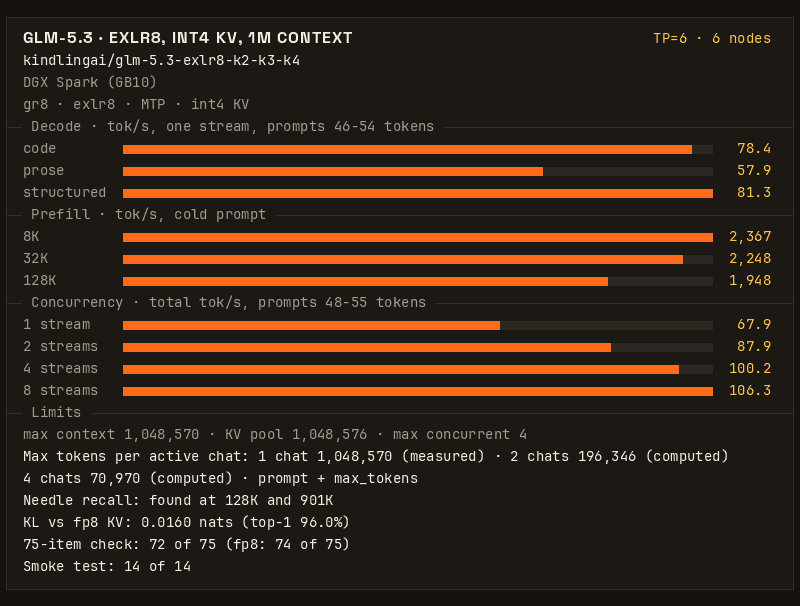
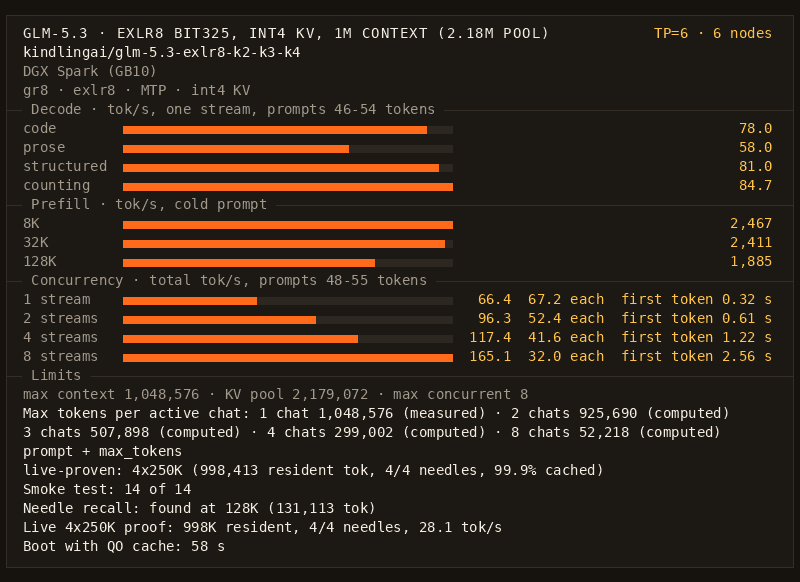
Pin gr8 v1.1.0, 2.18M KV pool (SHARE_LIMIT=65,536, SESS=8), quality/fast presets, and live 4x250K proof (#2)

diff --git a/README.md b/README.md
@@ -1,138 +1,95 @@
-# KindlingAI: GLM-5.3 EXLR8 on six DGX Sparks (1M context)
+# KindlingAI: GLM-5.3 EXLR8 on six DGX Sparks (1M context, 2.18M KV pool)
 
 If you are an agent booting this for someone, read [AGENTS.md](AGENTS.md) first, then the Quickstart.
 
 _**Join our discord to learn more about KindlingAI and `gr8`: https://discord.gg/8EAvYPV2rE**_
 
-Full GLM-5.3 on six DGX Sparks (GB10, 128 GB each) at TP=6, served by [gr8](https://github.com/kindlingai/gr8) from
-[kindlingai/glm-5.3-exlr8-k2-k3-k4](https://huggingface.co/kindlingai/glm-5.3-exlr8-k2-k3-k4), tuned for 1M context:
-a 1,048,576-token int4 KV pool (the full context of the model), and the first 131,072 tokens of each chat on every box so that agent prompts up to that
-size stay fast. This recipe is the published gr8 image, pinned by digest, and one `.env` file. Nothing is compiled.
+Full GLM-5.3 on six DGX Sparks (GB10, 128 GB each) at TP=6, served by [gr8](https://github.com/kindlingai/gr8) `v1.1.0` from
+the `bit325` width profile of [kindlingai/glm-5.3-exlr8-k2-k3-k4](https://huggingface.co/kindlingai/glm-5.3-exlr8-k2-k3-k4/tree/3e388b45b26ca4558351d22994afcfc85b99af74) (v0.6):
+a full **1,048,576-token** context window backed by a **2,179,072-token** int4 KV pool (`SHARE_LIMIT=65,536`, keeping 32K–64K prompts 100% unsharded),
+zero-copy shared prefix pages, MTP=3 drafting with confidence stopping, up to 8 concurrent chats, 7.4+ GiB free RAM per box,
+and a QO cache for ~58 s boots. This recipe is the published gr8 image, pinned by digest, and one `.env` file. Nothing is compiled.
 
 ![GLM-5.3 on six DGX Sparks, 1M context: decode, prefill and limits](docs/card.png)
 
-These 1M-context settings build on the TP=6 recipe
+These TP=6 settings build on the TP=6 recipe
 [knapcio/GLM-5.3-gr8-6x-DGX-Spark-TP6](https://github.com/knapcio/GLM-5.3-gr8-6x-DGX-Spark-TP6). Thank you.
 
-78.4 tok/s for one request writing code · 2,248 tok/s prefill on a 32K prompt · 4 requests at once, 100.2 tok/s in
-total · a 1,048,576-token KV pool · a fact hidden in a 901K prompt found
+78.0 tok/s for one request writing code · 58.0 tok/s prose · 2,467 tok/s prefill at 8K (2,411 at 32K, 1,885 at 128K) · 8 requests at once, 165.1 tok/s in total (180.2 tok/s in fast mode) · 2.18M-token KV pool (live-proven 4×250K = 998K resident tokens) · 7.4+ GiB free RAM per box · boot in 58 s
 
 ## Results
 
-Six DGX Sparks on one switch, TP=6, this recipe's `.env` (int4 KV, the default) under Docker Compose on the gr8 image
-`sha-a555ee2` (one commit before the pinned v1.0; see [Engine pin](#engine-pin)), measured 2026-11-12 with gr8's own benchmark (`bench/bench.py`, default level), one boot.
-GPU clocks were uncapped on all six boxes in the timed stages. Every speed is in tokens per second (tok/s).
+Six DGX Sparks on a 200G switch, TP=6, `gr8 v1.1.0` (`cdd1e09`), this recipe's `.env` (`bit325` v0.6 experts, int4 KV `CAP=2,179,072`, `MAX_MODEL_LEN=1,048,576`, `SHARE_LIMIT=65,536`, `SESS=8`, `GR8_KV_SHARE_PAGES=1`, MTP=3 with confidence stopping, default quality preset `MOE_UNION_CAP=48`), measured 2026-11-20 with gr8's own benchmark (`bench/bench.py`, default level), one fresh boot. GPU clocks were uncapped on all six boxes in the timed stages. Every speed is in tokens per second (tok/s).
 
 One request, short prompts (46-54 tokens, up to 512 tokens out, 6 runs each):
 
 | work | code | prose | structured | counting |
 |---|---|---|---|---|
-| tok/s, mean | 78.4 | 57.9 | 81.3 | 85.1 |
-| 95% interval | 76.7 - 80.9 | 57.3 - 58.6 | 79.1 - 83.7 | 84.8 - 85.5 |
+| tok/s, mean | 78.0 | 58.0 | 81.0 | 84.7 |
+| lowest - highest run | 73.1 - 81.3 | 53.8 - 60.5 | 78.0 - 83.5 | 83.2 - 85.3 |
+| 95% interval | 75.9 - 80.0 | 55.9 - 60.0 | 79.5 - 82.4 | 84.0 - 85.3 |
 
 Prefill, cold prompt (one run each):
 
 | prompt | first token | prefill tok/s | decode after it | first token, same prompt again (cached) |
 |---|---|---|---|---|
-| 8K tokens | 3.5 s | 2,367 | 55.2 tok/s | 0.08 s |
-| 32K tokens | 14.6 s | 2,248 | 52.2 tok/s | 0.15 s |
-| 128K tokens | 67.4 s | 1,948 | 37.3 tok/s | 0.39 s |
+| 8K tokens | 3.30 s | 2,467 | 54.7 tok/s | 0.11 s |
+| 32K tokens | 13.55 s | 2,411 | 57.6 tok/s | 0.15 s |
+| 128K tokens | 69.69 s | 1,885 | 35.9 tok/s | 1.70 s |
+
+Because `SHARE_LIMIT=65,536` keeps the first 64K tokens unsharded on every box, decode after a 32K prompt holds **57.6 tok/s**. (Note: in the 8K and 32K runs, 8–12 shared chat-template tokens hit the prefix cache, 0.04–0.11% of the prompt; 128K was 100% cold with 0 cached tokens.)
 
 Requests at once (short mixed prompts, 48-55 tokens, up to 512 tokens out each):
 
 | requests at once | 1 | 2 | 4 | 8 |
 |---|---|---|---|---|
-| total tok/s | 67.9 | 87.9 | 100.2 | 106.3 |
-| tok/s per request | 69.1 | 55.4 | 34.3 | 36.4 |
-| first token, median | 0.39 s | 0.93 s | 1.53 s | 12.2 s |
+| total tok/s (quality default, `MOE_UNION_CAP=48`) | 66.4 | 96.3 | 117.4 | 165.1 |
+| tok/s per request (quality default) | 67.2 | 52.4 | 41.6 | 32.0 |
+| first token, median | 0.32 s | 0.61 s | 1.22 s | 2.56 s |
 
-Four chats decode at once (`SESS=4`). With eight requests, four wait for a slot: that is the 12.2 s first token.
+### Speed and quality presets (`MOE_UNION_CAP`)
 
-Checks on the same boot:
+`gr8 v1.1.0` enables seven bit-exact decode and prefill kernels (`KL = 0.00000`), `DEC_BK_MAX=2048` (allowing a **2.18M-token** int4 KV pool and **8 concurrent sessions** while keeping **7.4+ GiB** free RAM per box), and a batch-budgeted MoE expert union cap (`MOE_UNION_CAP`):
+
+| preset (`.env`) | code decode | 4 streams total (per req) | 8 streams total (per req) | prefill 8K / 32K / 128K |
+|---|---:|---:|---:|---:|
+| **Quality (default, `MOE_UNION_CAP=48`)** | 78.0 tok/s | 117.4 (41.6) tok/s | 165.1 (32.0) tok/s | 2,467 / 2,411 / 1,885 tok/s |
+| **Fast (`MOE_UNION_CAP=32`)** | 77.8 tok/s | 128.2 (49.4) tok/s | 180.2 (36.8) tok/s | 2,320 / 2,435 / 1,909 tok/s |
+
+Fast mode (`MOE_UNION_CAP=32`) was measured on a fresh boot on 2026-11-20 (`bench/bench.py --quick`, 57.6 tok/s prose, 67.0 / 92.0 / 128.2 / 180.2 tok/s at 1 / 2 / 4 / 8 streams, 0 suspect characters, 7.36 GiB lowest `MemAvailable`). Set `MOE_UNION_CAP=0` for uncapped exact routing (`KL = 0.00000`).
+
+### How long each chat can be
+
+The int4 KV pool holds **2,179,072 tokens** (`6,528` physical pages of 64 tokens per rank), with `MAX_MODEL_LEN=1,048,576` (full 1M context). The first 65,536 tokens (`SHARE_LIMIT`) of each chat are stored on every box, and the rest is spread across the six boxes. Each active chat reserves its prompt plus `max_tokens`:
+
+| active chats | 1 | 2 | 3 | 4 | 8 |
+|---|---:|---:|---:|---:|---:|
+| max tokens per chat, equal split | 1,048,576 | 925,690 | 507,898 | 299,002 | 52,218 |
+
+The 1-chat value is measured (the served `max_model_len`); the multi-chat values are computed from the 6,528-page pool. Up to 8 chats decode simultaneously (`SESS=8`).
+
+### Live 4 × 250K long-context concurrency proof
+
+Measured immediately after the benchmark on the same `v1.1.0` quality-default boot on 2026-11-20 (four simultaneous ~250K-token independent chats, unique passkey needle per chat, zero evictions):
+
+| live concurrent workload | resident KV tokens | needle recall | turn-2 prefix cache hit | aggregate decode |
+|---|---:|---:|---:|---:|
+| **4 × 250K** independent chats | 998,413 | 4/4 (T1) & 4/4 (T2) | 99.9% (249.5K–249.7K cached each) | 28.1 tok/s (8.1–9.3 each) |
+
+Checks on the same `v1.1.0` default boot:
 
 | check | result |
 |---|---|
 | smoke test | 14 of 14 |
-| fact hidden in a 130,954-token prompt | found |
-| fact hidden in a 901,428-token prompt (a separate request on the same boot) | found; first token after 920 s |
+| fact hidden in a 131,113-token prompt | found |
 | count to 200, three times | 3 of 3 clean |
-| KL against the fp8 KV format, 4,096 positions | mean 0.0160, top-1 agreement 96.0% |
-| 75-item quality check (code, math, prose) | 72 of 75; the fp8 KV format scored 74 of 75 on the same boxes that night |
-| longest context (`max_model_len`) | 1,048,570 tokens |
-| boot to `/health` 200 | 98 s (one boot, model already on disk) |
-| lowest `MemAvailable` recorded on any box, 901K prompt included | 5.00 GiB |
+| prompt cache | 421 of 422 cached |
+| suspect characters | 0 replies |
+| longest context (`max_model_len`) | 1,048,576 tokens (`2,179,072`-token KV pool) |
+| boot to `/health` 200 with the QO cache | 58 s (model already on disk) |
+| lowest `MemAvailable` recorded on any box | 7.41 GiB after bench (7.59 - 8.48 GiB after boot; 7.38 GiB after 998K-token live 4×250K proof) |
 
-### How long each chat can be
-
-The boot log line `# s2: ... pool of N pages` gives the real KV pool of each box:
-
-    pages per box = R/64 + (CAP - R)/(64 x 6)        R = SHARE_LIMIT
-
-The first R tokens of each chat are stored on every box; the rest is spread over the six boxes. With this recipe
-(`CAP=1048576`, `SHARE_LIMIT=131072`) each box has 4,437 pages of 64 tokens. A chat of S tokens (prompt plus
-`max_tokens`) holds S/64 pages a box up to R, and (S - R)/384 pages a box past R. Chats that are active together must
-fit the pool:
-
-| active chats | 1 | 2 | 4 |
-|---|---:|---:|---:|
-| tokens per chat, equal split | 1,048,570 | 196,346 | 70,970 |
-
-The 1-chat value is the served `max_model_len`, which is the full context of GLM-5.3; the longest prompt that was run
-is 901,428 tokens. The 2-chat and 4-chat values are computed from the pool size, not measured. One 245K chat holds
-2,345 of the 4,437 pages, so a second one does not fit (computed; measured in October with the 3,303-page fp8 pool,
-below). `SESS=4`: a fifth chat waits.
-
-Why int4 KV gives so much more context here: with `SHARE_LIMIT=131072` the first 2,048 pages of the pool on each box
-hold chat prefixes that are on every box, so with fp8 KV 3,303 pages a box (12.66 GB) gave only 612,992 tokens. int4
-KV stores the attention latent in 4 bits: a row is 416 bytes, against 656 with fp8. 4,437 pages a box then use
-11.26 GB (12.67 GB with the MTP pool, 1.0 GB less than fp8 used), and every page past the first 2,048 adds 384 tokens
-of context.
-
-### fp8 KV (the rollback)
-
-`.env.example` has four commented lines (`KV_FORMAT=fp8`, `KV4_FOLD=0`, `KV4_TC=0`, `CAP=612992`) that give the
-earlier KV format. Measured 2026-11-11 on the same image and boxes, one boot, the same benchmark, with this repo's `compose.yaml`:
-
-| measure | fp8 KV |
-|---|---|
-| one request: code / prose / structured / counting | 78.4 / 58.2 / 81.5 / 85.2 tok/s |
-| prefill, cold 8K / 32K / 128K | 2,173 / 2,241 / 1,990 tok/s |
-| 1 / 2 / 4 / 8 requests at once, total | 67.5 / 86.0 / 97.6 / 105.6 tok/s |
-| longest context (`max_model_len`) | 612,986 tokens |
-| tokens per chat with 1 / 2 / 4 active chats | 612,986 / 105,658 / 52,794 (2 and 4 computed from 3,303 pages a box) |
-| boot to `/health` 200 | 95 s |
-| lowest `MemAvailable` recorded on any box | 6.89 GiB |
-
-### Earlier measurements (October 2026): long prompts
-
-This TP=6 setup was first measured in October 2026 on a pre-release TP=6 build of gr8 (gr8 plus the 39 patches of the
-knapcio recipe), on bare metal, booting converted model files, with the GPU clock capped at 2000 MHz. These rows have no
-match in the benchmark above:
-
-| measure | value |
-|---|---|
-| two prompts of about 100K sent at once | 201,676 tokens in 128 s (1,575 tok/s); a resend read 98,304 tokens from the cache, first token 1.7-3.0 s |
-| 245K cold prefill | 188-190 s (about 1,290 tok/s); a fact hidden in the prompt was found |
-| 245K next turn (same prefix and one new line) | first token 4.5 s; 241,664 of 244,649 tokens from the prefix cache |
-| decode at 245K context | 29.0 tok/s |
-| two 245K agents at once | the second evicts the first: both prefill again (first token 188 s and 393 s) |
-| a 50K cached turn sent during a 245K cold prefill | first token 9.0 s |
-
-### Why SHARE_LIMIT is 131072
-
-Measured in October 2026 on the pre-release build:
-
-| `SHARE_LIMIT` / `CAP` | pages a box | pool GB a box | result |
-|---|---|---|---|
-| 131072 / 612992 (this recipe with fp8 KV) | 3,303 | 12.66 | serves; lowest `MemAvailable` 5.14 GiB; one 245K chat resident at a time |
-| 262144 / 540672 | 4,821 | 17.90 | out of memory at boot |
-| 49152 / 761728 | 2,623 | 10.32 | serves (`max_model_len` 761,722) and two 245K chats stay cached, but a 50K turn waited over 250 s behind a 245K cold prefill, and `MemAvailable` fell to 3.90 GiB |
-
-A larger R does not fit in memory. A smaller R puts agent prompts of 50K to 130K past R, where they wait behind long
-prefills: with R at 65,536 and the same `CAP`, agents with 80-130K prompts saw the first token go from 12-16 s to
-57-90 s.
-
-[kindling.json](kindling.json) has the card's numbers in a form a program can read.
+[kindling.json](kindling.json) has these numbers in a form a program can read. The card above is drawn from it.
 
 ## Quickstart
 
@@ -141,17 +98,22 @@ On every box, first turn off proactive memory compaction and open TCP ports 7340
 
 ```bash
 git clone https://github.com/kindlingai/glm-5.3-exlr8-6x-spark && cd glm-5.3-exlr8-6x-spark
+sudo mkdir -p /srv/gr8/cache/qocache && sudo chown -R 1000:1000 /srv/gr8/cache
 cp .env.example .env
 nano .env                  # PEERS: the six LAN addresses, head first. The same file on every box.
 docker compose up -d       # pulls the pinned gr8 image; the first boot fetches this box's part of the model
 docker compose logs -f     # this box's supervisor; ready when the cluster serves
 ```
 
+The first boot also writes the QO cache (13 GB a box) to `/srv/gr8/cache/qocache`. Later boots read it (~58 s). The engine
+does not make that directory: without the `mkdir` line no cache is written, and every boot takes the long time.
+For another place, change `GR8_CACHE` in `.env` and make its `qocache` directory the same way.
+
 Then, on the head (the first address in `PEERS`):
 
 ```bash
 docker compose exec gr8 /opt/gr8/gr8 glm53 smoke
-curl -s localhost:8100/v1/models      # max_model_len 1048570
+curl -s localhost:8100/v1/models      # max_model_len 1048576
 ```
 
 The head serves an OpenAI-compatible API on port 8100. Stop the cluster with
@@ -164,28 +126,26 @@ reads what the volume holds at the commits pinned in `.env`, and fetches the res
 
 ## What you need
 
-- Six DGX Sparks or other GB10 boxes (128 GB unified memory), with nothing else holding much memory. A box runs one
-  model at a time.
+- Six DGX Sparks or other GB10 boxes (128 GB unified memory), with nothing else holding much memory (7.4+ GiB free
+  per box measured at `CAP=2,179,072`).
 - A RoCE v2 fabric between the ConnectX-7 ports through one 200G switch. Six boxes do not work as a ring.
 - A LAN between the boxes with TCP ports 7340 and 7341 open.
 - Docker with the NVIDIA container toolkit (DGX OS has both).
-- About 90 GB of disk a box for the model.
+- About 65 GB of disk a box for the model and 13 GB for the QO cache.
 - Proactive memory compaction off on every box:
   `sudo sysctl -w vm.compaction_proactiveness=0` (gr8's
   [DEPLOY.md](https://github.com/kindlingai/gr8/blob/main/docs/DEPLOY.md#before-you-start) has the permanent form).
 
-## The 1M-context settings
+## The 1M-context (2.18M-pool) settings
 
-This recipe uses the TP=6 settings of the knapcio recipe (MTP=3 drafting with early stop, `KVB=bf16`), plus three
-changes:
+Every line is in [.env.example](.env.example). Highlights over the `v1.0` recipe:
 
-- `PF_GEMMF32=1`: a faster prefill kernel with the same output, byte for byte.
-- `GR8_K1_SPLIT=1:/4,2-3:2x1,4-32:8x1/4`: a different split of one decode kernel when several rows decode together.
-- `KV_FORMAT=int4` with `KV4_FOLD=1`, `KV4_TC=1`, `CAP=1048576`, and five `GR8_KV4_*` settings in `EXTRA_ENV` for the
-  int4 attention kernels: the KV pool goes from 612,992 to 1,048,576 tokens.
+- `gr8 v1.1.0` with `bit325` v0.6 weights, seven bit-exact decode/prefill kernels, `DEC_BK_MAX=2048`, and `MOE_UNION_CAP=48` (`32` for fast concurrency: 180.2 tok/s at 8 streams; `0` for uncapped exact).
+- `KV_FORMAT=int4` with `KVB=bf16`, `KV4_FOLD=1`, `KV4_TC=1`, `CAP=2,179,072` (6,528 physical pages/rank), `MAX_MODEL_LEN=1,048,576`, `SHARE_LIMIT=65,536`, `SESS=8`, `GR8_KV_SHARE_PAGES=1`, and `REUSE_GRID=64`.
+- `MTP=3` with solo (`MTP_KSTOP`) and shared-batch (`MTP_KSTOPB`) confidence stopping, `MTP_LASTROW=1`, `DRAFT_HEAD2=1`, `L2PF=31`, `MTP_L2PF=3`.
+- `PF_OWN=3` with `QO_CACHE` (~58 s boot) and `PF_GEMMF32=1`.
 
-Every line is in [.env.example](.env.example). gr8's
-[SETTINGS.md](https://github.com/kindlingai/gr8/blob/main/docs/SETTINGS.md) explains each setting.
+gr8's [SETTINGS.md](https://github.com/kindlingai/gr8/blob/main/docs/SETTINGS.md) explains each setting.
 
 ## Help
 
@@ -204,17 +164,16 @@ This recipe has no engine code. It runs one published gr8 image, named by tag an
 
 | | |
 |---|---|
-| engine | [kindlingai/gr8](https://github.com/kindlingai/gr8) [`v1.0`](https://github.com/kindlingai/gr8/releases/tag/v1.0) at [`db6f2c1`](https://github.com/kindlingai/gr8/commit/db6f2c17c7b05303b69ce667e416d10340aeb9b7) |
-| image | `ghcr.io/kindlingai/gr8:v1.0` |
-| digest | `sha256:11ff2823184b0512ae62e0f1c281c46941cfb0fd81096e1dac4c313ad3fe9413` |
+| engine | [kindlingai/gr8](https://github.com/kindlingai/gr8) [`v1.1.0`](https://github.com/kindlingai/gr8/releases/tag/v1.1.0) at [`cdd1e09`](https://github.com/kindlingai/gr8/commit/cdd1e0931047f55bba8f682a0ae79c4198668ca3) |
+| image | `ghcr.io/kindlingai/gr8:v1.1.0` |
+| digest | `sha256:b22eedbd7902f65dbf2090897d75f5d92276cbf78a16bcde1f958aa56a306cf7` |
 
-The results above were measured on the image of gr8 commit [`a555ee2`](https://github.com/kindlingai/gr8/commit/a555ee2a078946332769b5cd412ba3c73c46e242) (`ghcr.io/kindlingai/gr8:sha-a555ee2`). v1.0 is one commit after it, and that commit changes only the README, the docs, the benchmark tools and their result files, not the engine source. This recipe was not booted again on the v1.0 image.
+All TP=6 results above were measured on 2026-11-20 directly on this pinned `gr8 v1.1.0` image (`sha256:b22eedbd...`).
 
 After v1.0, the pin moves to a newer gr8 release only after this recipe was booted and measured on it. `python3 check.py` checks
 that `compose.yaml` and `kindling.json` name the same image; CI runs it on every pull request.
 
-For six boxes with gr8's own defaults (614,400-token pool, eight chats), use
-[glm-5.3-exlr8-4x-spark](https://github.com/kindlingai/glm-5.3-exlr8-4x-spark) with six addresses in `PEERS`.
+For four boxes, see [glm-5.3-exlr8-4x-spark](https://github.com/kindlingai/glm-5.3-exlr8-4x-spark).
 For five boxes, see [glm-5.3-exlr8-5x-spark](https://github.com/kindlingai/glm-5.3-exlr8-5x-spark).
 
 ## License

diff --git a/AGENTS.md b/AGENTS.md
@@ -9,7 +9,7 @@ tell the person.
 - It is a DGX Spark or other GB10 box with 128 GB, and no other model runs on it: `docker ps` and `nvidia-smi` show
   none.
 - Docker has the NVIDIA runtime: `docker info | grep -i nvidia`.
-- Disk: about 90 GB for the model:
+- Disk: about 65 GB for the model plus 13 GB for the QO cache (`/srv/gr8/cache/qocache`):
   `df -h "$(docker info --format '{{.DockerRootDir}}')"`, or the `GR8_CACHE` directory if you set one.
 - Hugging Face answers: `curl -sI https://huggingface.co`.
 - Proactive memory compaction is off: `sysctl vm.compaction_proactiveness` prints 0. If not, as root:
@@ -24,7 +24,7 @@ Ask the person before you change any other line.
 
 ## 3. Boot
 
-On every box: `docker compose up -d`. The first boot fetches this box's part of the model (about 90 GB).
+On every box: `sudo mkdir -p /srv/gr8/cache/qocache && sudo chown -R 1000:1000 /srv/gr8/cache`, then `docker compose up -d`. The first boot fetches this box's part of the model (about 65 GB) and writes the QO cache (13 GB); later boots take ~58 s.
 The boxes must be on a switch, not a ring. Follow it with `docker compose logs -f`.
 
 ## 4. Check
@@ -33,7 +33,7 @@ On the head:
 
 - `docker compose exec gr8 /opt/gr8/gr8 glm53 health` exits 0.
 - `docker compose exec gr8 /opt/gr8/gr8 glm53 smoke` passes 14 of 14.
-- `curl -s localhost:8100/v1/models` shows `max_model_len` 1048570.
+- `curl -s localhost:8100/v1/models` shows `max_model_len` 1048576.
 
 ## 5. Stop
 
